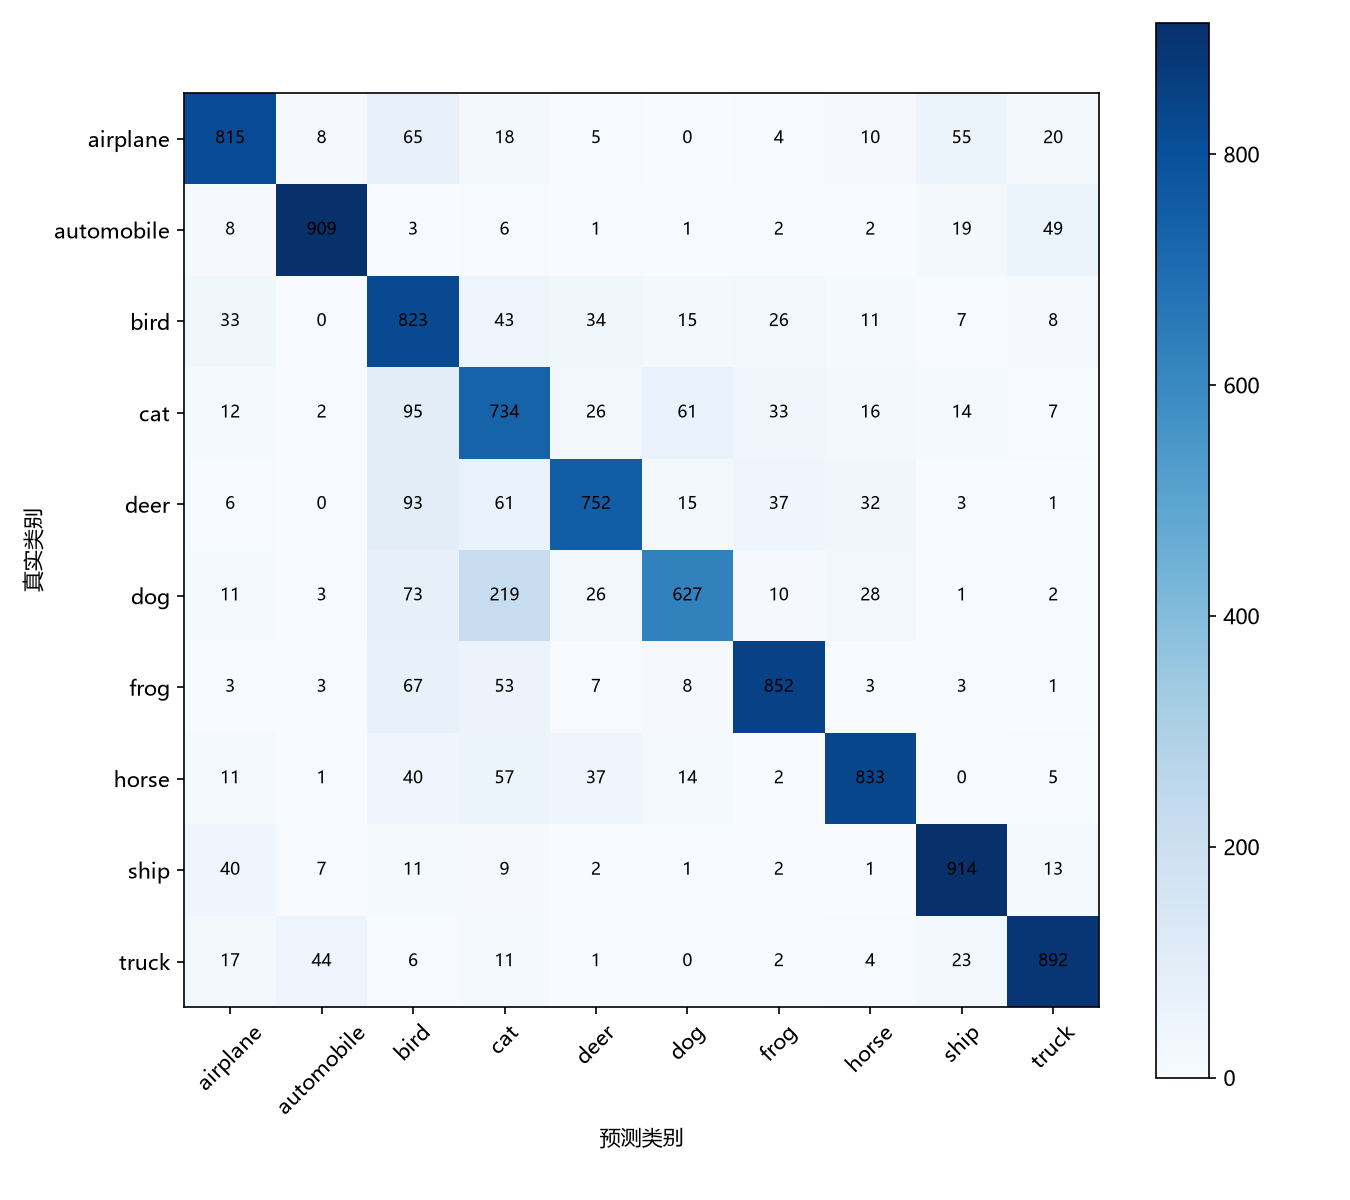
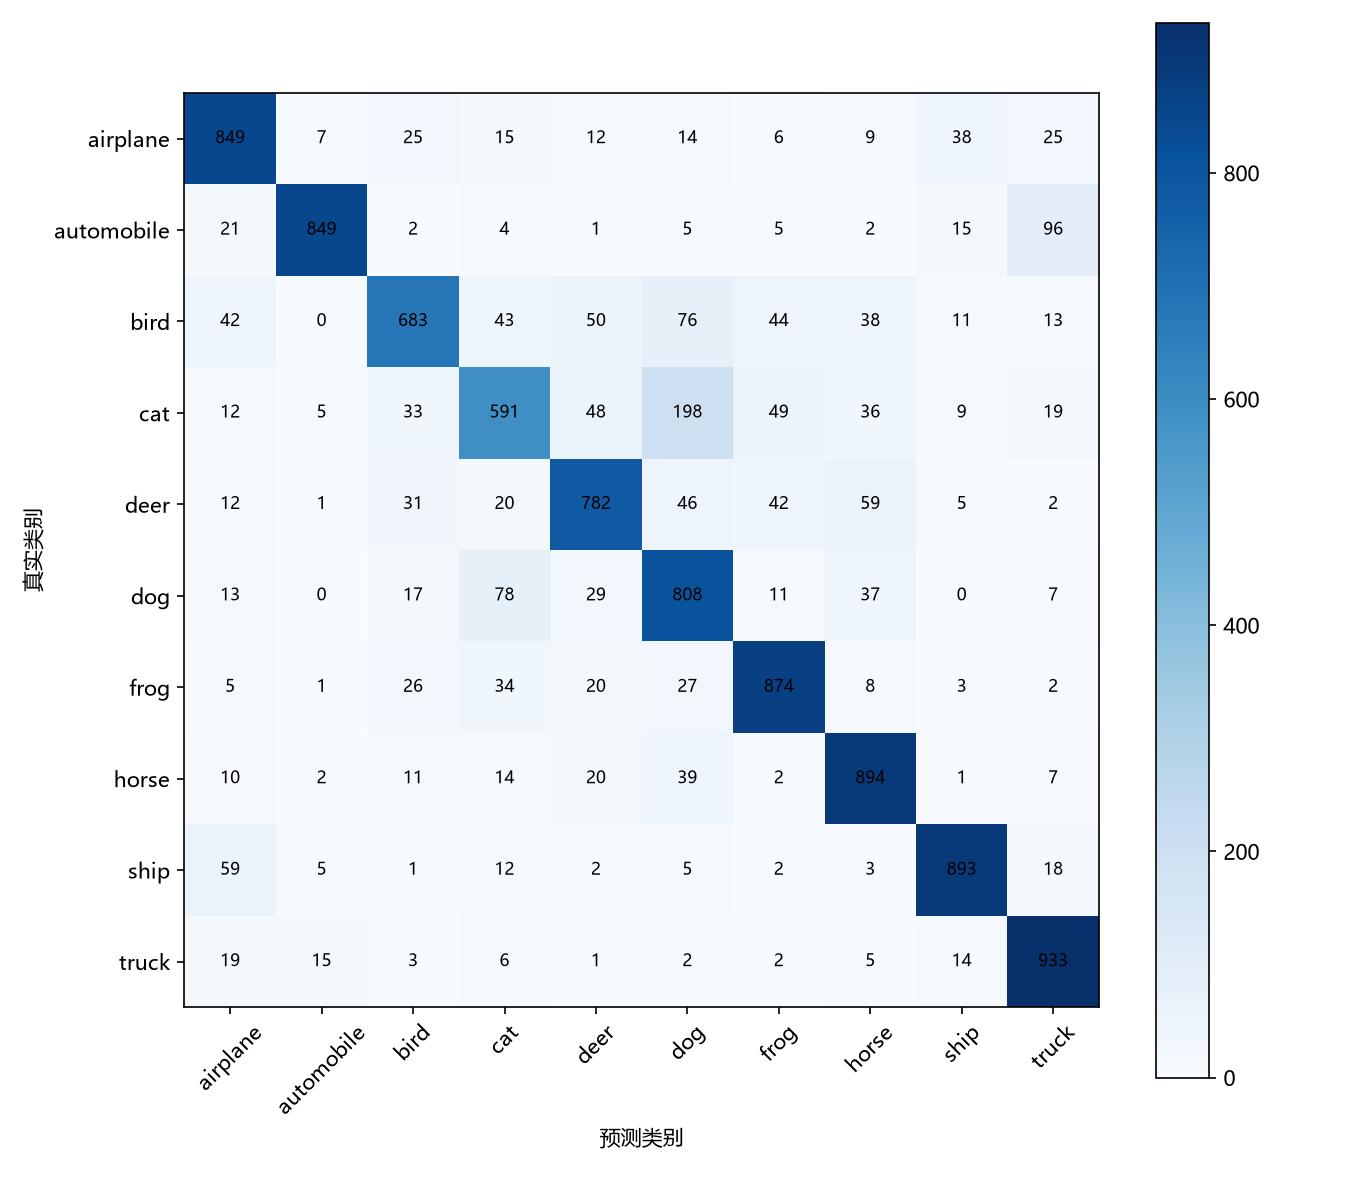
docs: update CNN results and figures to latest run; remove visualize_data.py

diff --git a/README.md b/README.md
@@ -81,10 +81,10 @@ tensorboard --logdir logs/tensorboard
 | 指标 | 方法一 SimpleCNN | 方法二 ResNet18 |
 | --- | --- | --- |
 | 训练轮数 | 30 | 15 |
-| 验证集最高准确率 | 80.50% | 91.52% |
-| 测试集准确率 | 81.51% | 91.35% |
-| 测试集损失 | 0.5332 | 0.2786 |
-| 宏平均 F1 | 0.8168 | 0.9132 |
+| 验证集最高准确率 | 80.82% | 91.52% |
+| 测试集准确率 | 81.56% | 91.35% |
+| 测试集损失 | 0.5608 | 0.2786 |
+| 宏平均 F1 | 0.8143 | 0.9132 |
 
 训练/验证损失与准确率曲线：
 
